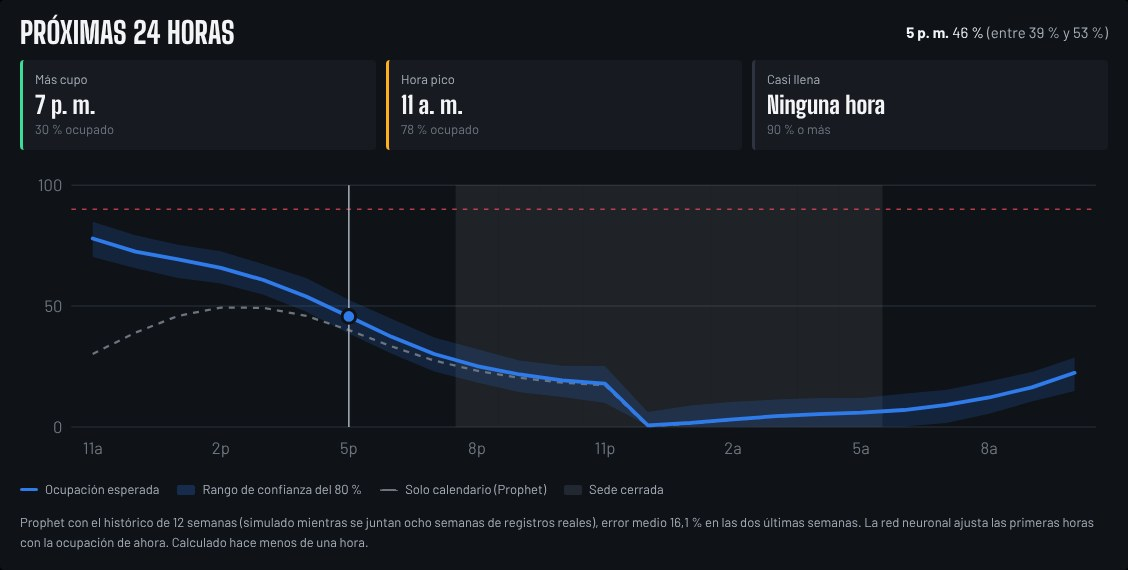
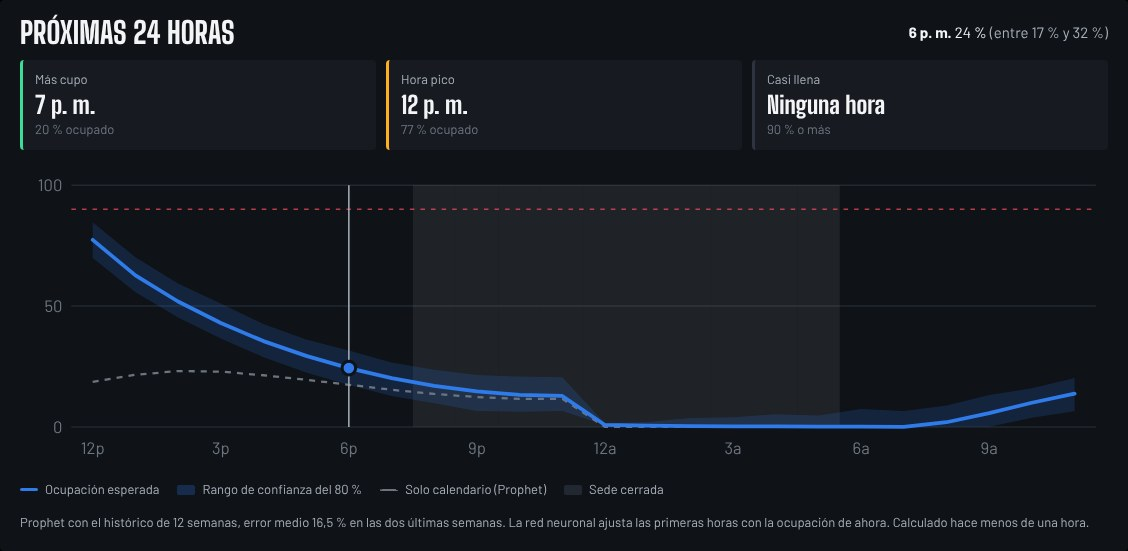
Doce semanas de historia realista en demo.sql
- Simula la operación hora por hora hasta ayer: Chapinero con patrón de
  oficinas y Zona T comercial, con más movimiento el viernes por la noche y
  el fin de semana. Respeta festivos, capacidad y el primer espacio libre.
- Ningún espacio ni vehículo queda en dos lugares a la vez.
- Los reportes, el historial y Prophet pasan a tener datos con sentido:
  Prophet usa la historia de la base (MAPE 16,5 % en Chapinero y 22,9 % en
  Zona T).
- Capturas de reportes y pronóstico actualizadas.

diff --git a/README.md b/README.md
@@ -88,9 +88,15 @@ psql -U postgres -d parkway -f database/seed.sql
 psql -U postgres -d parkway -f database/demo.sql   # opcional, recomendado para presentar
 ```
 
-`demo.sql` ocupa cerca del 60 % de los espacios, registra salidas del día,
-crea dos reservas activas que vencen a los 18 minutos y llena la bitácora. Se
-puede ejecutar varias veces para reiniciar la demostración.
+`demo.sql` simula 12 semanas de operación hasta ayer, con el patrón de cada
+sede: Chapinero es de oficinas (llegan temprano, se quedan el día y el fin
+de semana baja a la mitad) y Zona T es comercial (almuerzo, tarde y noche,
+con más movimiento el viernes y el fin de semana). Respeta los festivos, la
+capacidad de cada sede y que un vehículo no esté en dos lugares a la vez.
+Hoy ocupa cerca del 60 % de los espacios, registra salidas del día, crea dos
+reservas activas que vencen a los 18 minutos y llena la bitácora. Así los
+reportes, el historial y el pronóstico tienen datos con sentido. Tarda unos
+segundos y se puede ejecutar varias veces para reiniciar la demostración.
 
 **2. Backend** (una terminal)
 
@@ -285,11 +291,13 @@ dos últimas semanas reservadas y guarda en `prediccion_ocupacion` las
 próximas 48 horas (modelo `PROPHET`), así el cálculo de las 2:00 a. m. sirve
 el día completo. Las métricas quedan en `modelo_pronostico`.
 
-Resultado actual con datos simulados: MAPE de 16,1 % en Sede Chapinero, que
-cumple la meta de menos de 20 %, y de 21,1 % en Sede Zona T, que no la
-cumple. El error medio es de 4 a 5 puntos porcentuales y cerca del 80 % de
-los valores reales cae dentro del rango. El MAPE no cuenta las horas con
-menos de 10 % de ocupación, porque dividir por casi cero lo infla.
+Resultado con la historia de 12 semanas de `demo.sql`: MAPE de 16,5 % en
+Sede Chapinero, que cumple la meta de menos de 20 %, y de 22,9 % en Sede
+Zona T, que no la cumple. El error medio es de 4 a 5 puntos porcentuales y
+cerca del 80 % de los valores reales cae dentro del rango. El MAPE no cuenta
+las horas con menos de 10 % de ocupación, porque dividir por casi cero lo
+infla. Sin esa historia (una base solo con `seed.sql`), el script usa la
+serie simulada y lo indica.
 
 **Cada noche.** El flujo `.github/workflows/pronostico.yml` lo ejecuta en
 GitHub Actions a las 2:17 a. m. contra la base de producción. Necesita el
@@ -360,7 +368,7 @@ Parkway/
 ├── database/
 │   ├── schema.sql          # Tablas, claves, restricciones e índices
 │   ├── seed.sql            # Usuarios, dos sedes (una de dos pisos), 71 espacios y tarifas
-│   ├── demo.sql            # Vehículos dentro, salidas, reservas y bitácora de ejemplo
+│   ├── demo.sql            # 12 semanas de historia, vehículos dentro, reservas y bitácora de ejemplo
 │   ├── migracion_prediccion.sql  # Agrega la tabla de predicciones a una base existente
 │   ├── migracion_tiempo_real.sql # Agrega el aviso de cambios (RF12) a una base existente
 │   └── migracion_pronostico.sql  # Agrega las tablas del pronóstico (RF15); el script la ejecuta solo

diff --git a/docs/DESPLIEGUE.md b/docs/DESPLIEGUE.md
@@ -48,7 +48,8 @@ porque el servicio de Render solo corre Node.js. Se configura una vez:
 2. En GitHub, abre el repositorio y ve a **Settings > Secrets and variables >
    Actions > New repository secret**. Nombre: `DATABASE_URL`. Valor: la URL.
 3. En la pestaña **Actions**, abre **Pronóstico de ocupación** y pulsa
-   **Run workflow** para calcularlo la primera vez. Debe terminar en verde y
+   **Run workflow** para calcularlo la primera vez. Si cargaste `demo.sql`, el pronóstico
+   usa sus 12 semanas de historia. Debe terminar en verde y
    mostrar el MAPE de cada sede.
 
 Desde ahí corre solo cada noche a las 2:17 a. m. Si falta el secreto, el
